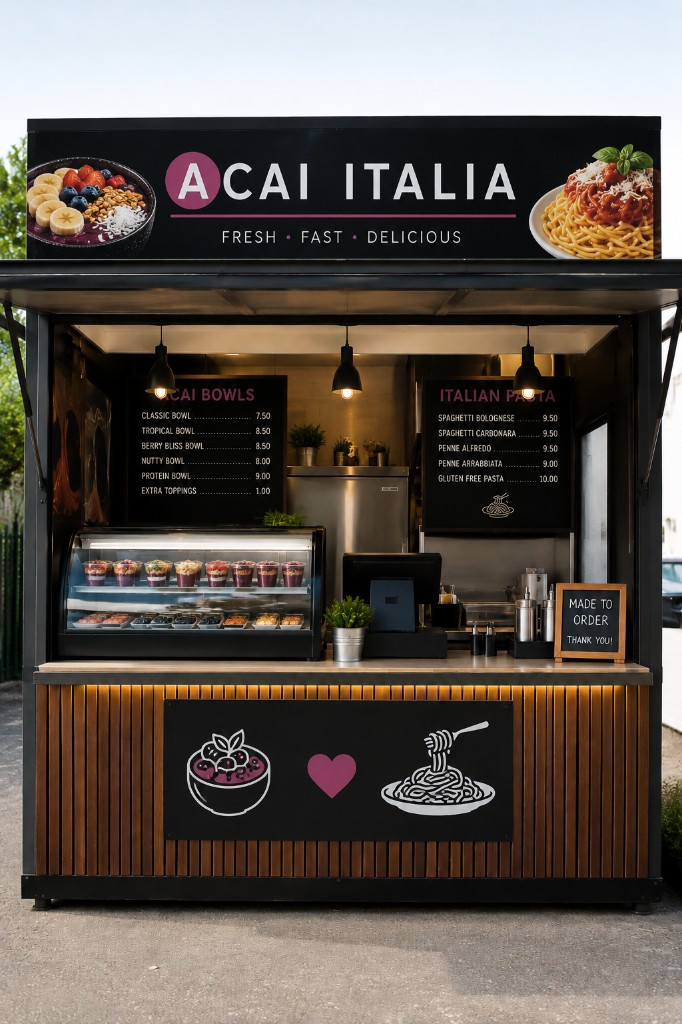
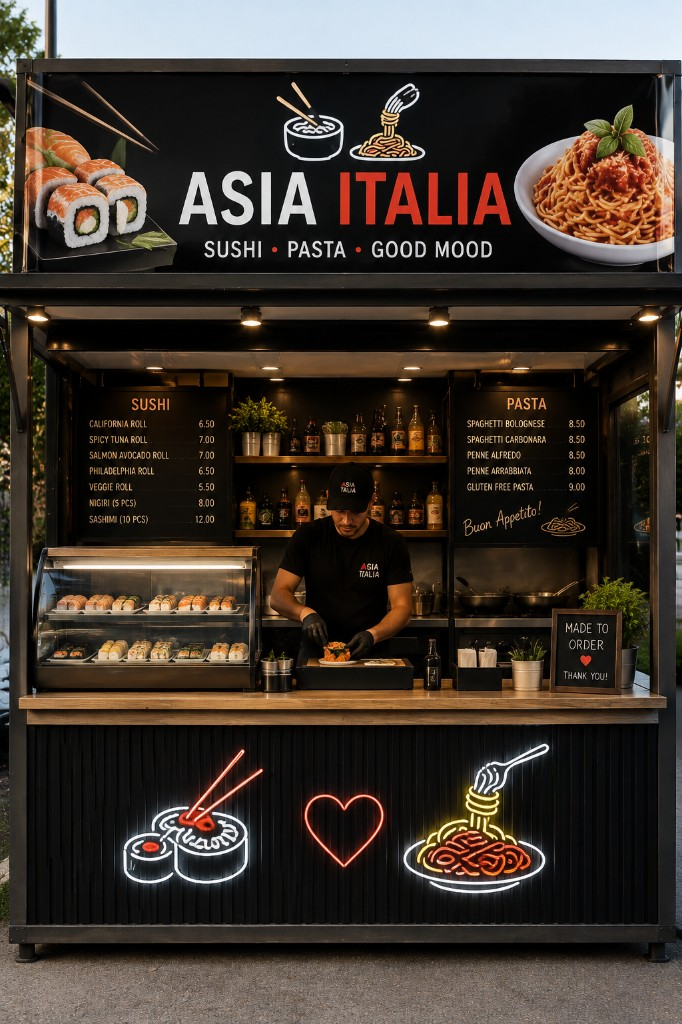
Rename to Asia Italia and swap hero image
- Replace all Acai Italia references with Asia Italia (nav, hero, story, footer, roll, alt text)
- Update hero photo to the new Asia Italia storefront
- Re-tune hero crop so the full sign sits flush under the navbar with no sky/gray on mobile

diff --git a/index.html b/index.html
@@ -3,7 +3,7 @@
 <head>
 <meta charset="utf-8">
 <meta name="viewport" content="width=device-width, initial-scale=1">
-<title>Acai Italia — Sushi &amp; Pasta, Boquerón</title>
+<title>Asia Italia — Sushi &amp; Pasta, Boquerón</title>
 <link rel="preconnect" href="https://fonts.googleapis.com">
 <link rel="preconnect" href="https://fonts.gstatic.com" crossorigin>
 <link rel="stylesheet" href="https://fonts.googleapis.com/css2?family=Cormorant+Garamond:ital,wght@0,300;0,400;0,500;0,600;1,300;1,400&family=Lora:ital,wght@0,400;0,500;1,400&display=swap">
@@ -24,7 +24,7 @@ a:hover{color:var(--color-accent-600)}
 <div style="max-width:480px;margin:0 auto;background:var(--color-bg);min-height:100vh;box-shadow:0 0 60px rgba(45,43,43,.18);overflow-x:hidden">
 
   <header style="position:sticky;top:0;z-index:20;display:flex;align-items:center;justify-content:space-between;gap:12px;padding:10px 18px;background:color-mix(in srgb, var(--color-bg) 92%, transparent);backdrop-filter:blur(8px);border-bottom:1px solid var(--color-divider)">
-    <a href="#top" style="font-family:var(--font-heading);font-size:19px;letter-spacing:.14em;text-transform:uppercase;color:var(--color-text);text-decoration:none">Acai Italia</a>
+    <a href="#top" style="font-family:var(--font-heading);font-size:19px;letter-spacing:.14em;text-transform:uppercase;color:var(--color-text);text-decoration:none">Asia Italia</a>
     <nav style="display:flex;gap:14px;font-family:var(--font-heading);font-size:13px;letter-spacing:.06em;text-transform:uppercase">
       <a href="#historia" style="color:var(--color-neutral-700);text-decoration:none">Historia</a>
       <a href="#menu" style="color:var(--color-neutral-700);text-decoration:none">Menú</a>
@@ -34,12 +34,12 @@ a:hover{color:var(--color-accent-600)}
 
   <section id="top" style="position:relative;height:86svh;min-height:520px;overflow:hidden">
     <div style="position:absolute;inset:0;overflow:hidden">
-      <img class="photo" src="assets/hero.jpg" alt="Fachada del restaurante Acai Italia" style="position:absolute;left:0;bottom:-20px;width:100%;height:118%;object-fit:cover;object-position:center bottom">
+      <img class="photo" src="assets/hero.jpg" alt="Fachada del restaurante Asia Italia" style="position:absolute;left:0;bottom:0;width:100%;height:108%;object-fit:cover;object-position:center bottom">
     </div>
     <div style="position:absolute;inset:0;pointer-events:none;background:linear-gradient(180deg, rgba(32,31,29,.52) 0%, rgba(32,31,29,.18) 38%, rgba(32,31,29,.72) 100%)"></div>
     <div style="position:absolute;inset:0;display:flex;flex-direction:column;justify-content:flex-end;padding:28px 24px 34px;pointer-events:none;animation:sal-rise .9s ease both">
       <div style="font-family:var(--font-heading);font-size:12px;letter-spacing:.24em;text-transform:uppercase;color:var(--color-accent-300);font-feature-settings:'tnum'">Cabo Rojo · Puerto Rico</div>
-      <h1 style="font-family:var(--font-heading);font-weight:300;font-size:66px;line-height:.94;letter-spacing:-.02em;color:#f8f4f4;margin:12px 0 0">Acai Italia</h1>
+      <h1 style="font-family:var(--font-heading);font-weight:300;font-size:66px;line-height:.94;letter-spacing:-.02em;color:#f8f4f4;margin:12px 0 0">Asia Italia</h1>
       <div style="width:64px;height:1px;background:var(--color-accent);margin:18px 0"></div>
       <p style="font-family:var(--font-body);font-style:italic;font-size:17px;line-height:1.5;color:#eae7e7;margin:0 0 22px;max-width:22em;text-wrap:pretty">Sushi de la costa oeste y pasta hecha a mano, en la misma mesa.</p>
       <div style="display:flex;gap:10px;pointer-events:auto">
@@ -52,7 +52,7 @@ a:hover{color:var(--color-accent-600)}
   <section id="historia" style="padding:44px 24px 8px">
     <div style="font-family:var(--font-heading);font-size:11px;letter-spacing:.24em;text-transform:uppercase;color:var(--color-accent-700)">Nuestra historia</div>
     <h2 style="font-family:var(--font-heading);font-weight:400;font-size:34px;line-height:1.06;margin:14px 0 18px">Dos cocinas, un mismo mar</h2>
-    <p style="text-align:justify;hyphens:auto;font-size:15.5px;line-height:1.72;margin:0 0 14px">Acai Italia abrió en una casa de madera a dos cuadras del muelle de Boquerón. La familia llegó de Nápoles hace tres generaciones y se quedó por el pescado: chillo, atún, pulpo y langosta que llegan de las mismas aguas que ven nuestras mesas.</p>
+    <p style="text-align:justify;hyphens:auto;font-size:15.5px;line-height:1.72;margin:0 0 14px">Asia Italia abrió en una casa de madera a dos cuadras del muelle de Boquerón. La familia llegó de Nápoles hace tres generaciones y se quedó por el pescado: chillo, atún, pulpo y langosta que llegan de las mismas aguas que ven nuestras mesas.</p>
     <p style="text-align:justify;hyphens:auto;font-size:15.5px;line-height:1.72;margin:0">La cocina hace pasta fresca cada mañana y corta pescado crudo cada tarde. En medio de las dos está la sushi pizza: una base de arroz crujiente que tratamos como masa y vestimos como plato italiano. No es fusión por capricho; es lo que se cocina cuando dos abuelas comparten una estufa.</p>
     <div class="hr" style="margin:30px 0 0"></div>
   </section>
@@ -95,7 +95,7 @@ a:hover{color:var(--color-accent-600)}
       </div>
 
       <div class="tab-panel active" data-panel="sushi" style="flex-direction:column">
-        <div class="menu-item"><div class="mi-main"><div class="mi-name">Roll Acai Italia</div><div class="mi-desc">Langosta local, albahaca, tobiko, alioli de limón</div></div><div class="mi-price">$22</div></div>
+        <div class="menu-item"><div class="mi-main"><div class="mi-name">Roll Asia Italia</div><div class="mi-desc">Langosta local, albahaca, tobiko, alioli de limón</div></div><div class="mi-price">$22</div></div>
         <div class="menu-item"><div class="mi-main"><div class="mi-name">Roll Boquerón</div><div class="mi-desc">Atún, mango, aguacate, cebollín</div></div><div class="mi-price">$16</div></div>
         <div class="menu-item"><div class="mi-main"><div class="mi-name">Roll Puglia</div><div class="mi-desc">Berenjena asada, tomate seco, mozzarella ahumada</div></div><div class="mi-price">$15</div></div>
         <div class="menu-item"><div class="mi-main"><div class="mi-name">Nigiri de chillo</div><div class="mi-desc">Dos piezas, limón y sal marina</div></div><div class="mi-price">$8</div></div>
@@ -136,10 +136,10 @@ a:hover{color:var(--color-accent-600)}
       <a href="#" style="font-family:var(--font-heading);font-size:13px;letter-spacing:.06em;text-decoration:none">@salamanca.pr</a>
     </div>
     <div style="display:grid;grid-template-columns:minmax(0,1fr) minmax(0,1fr);gap:10px;padding:0 24px">
-      <div class="plate" style="aspect-ratio:1;min-width:0;overflow:hidden"><img class="photo" src="assets/instagram-1.png" alt="Foto de Acai Italia en Instagram" style="width:100%;height:100%;object-fit:cover"></div>
-      <div class="plate" style="aspect-ratio:1;min-width:0;overflow:hidden"><img class="photo" src="assets/instagram-2.png" alt="Foto de Acai Italia en Instagram" style="width:100%;height:100%;object-fit:cover"></div>
-      <div class="plate" style="aspect-ratio:1;min-width:0;overflow:hidden"><img class="photo" src="assets/instagram-3.png" alt="Foto de Acai Italia en Instagram" style="width:100%;height:100%;object-fit:cover"></div>
-      <div class="plate" style="aspect-ratio:1;min-width:0;overflow:hidden"><img class="photo" src="assets/instagram-4.png" alt="Foto de Acai Italia en Instagram" style="width:100%;height:100%;object-fit:cover"></div>
+      <div class="plate" style="aspect-ratio:1;min-width:0;overflow:hidden"><img class="photo" src="assets/instagram-1.png" alt="Foto de Asia Italia en Instagram" style="width:100%;height:100%;object-fit:cover"></div>
+      <div class="plate" style="aspect-ratio:1;min-width:0;overflow:hidden"><img class="photo" src="assets/instagram-2.png" alt="Foto de Asia Italia en Instagram" style="width:100%;height:100%;object-fit:cover"></div>
+      <div class="plate" style="aspect-ratio:1;min-width:0;overflow:hidden"><img class="photo" src="assets/instagram-3.png" alt="Foto de Asia Italia en Instagram" style="width:100%;height:100%;object-fit:cover"></div>
+      <div class="plate" style="aspect-ratio:1;min-width:0;overflow:hidden"><img class="photo" src="assets/instagram-4.png" alt="Foto de Asia Italia en Instagram" style="width:100%;height:100%;object-fit:cover"></div>
     </div>
   </section>
 
@@ -148,7 +148,7 @@ a:hover{color:var(--color-accent-600)}
     <h2 style="font-family:var(--font-heading);font-weight:300;font-size:34px;line-height:1.06;margin:14px 0 20px;color:var(--color-neutral-100)">Calle Betances 42</h2>
 
     <div class="plate" style="width:100%;height:190px;border-color:var(--color-neutral-800);margin-bottom:20px">
-      <img class="photo" src="assets/storefront.png" alt="Fachada del restaurante Acai Italia">
+      <img class="photo" src="assets/storefront.png" alt="Fachada del restaurante Asia Italia">
     </div>
 
     <p style="font-size:15px;line-height:1.6;margin:0 0 22px;color:var(--color-neutral-300)">Boquerón, Cabo Rojo, PR 00623<br>A dos cuadras del muelle, frente a la plaza.</p>
@@ -174,7 +174,7 @@ a:hover{color:var(--color-accent-600)}
       </div>
     </div>
 
-    <div style="margin-top:34px;text-align:center;font-family:var(--font-heading);font-size:12px;letter-spacing:.24em;text-transform:uppercase;color:var(--color-neutral-600)">Acai Italia · Est. 2019</div>
+    <div style="margin-top:34px;text-align:center;font-family:var(--font-heading);font-size:12px;letter-spacing:.24em;text-transform:uppercase;color:var(--color-neutral-600)">Asia Italia · Est. 2019</div>
   </section>
 </div>
 

diff --git a/Salamanca.dc.html b/Salamanca.dc.html
@@ -25,7 +25,7 @@ a:hover{color:var(--color-accent-600)}
 <div style="max-width:480px;margin:0 auto;background:var(--color-bg);min-height:100vh;box-shadow:0 0 60px rgba(45,43,43,.18);overflow-x:hidden">
 
   <header style="position:sticky;top:0;z-index:20;display:flex;align-items:center;justify-content:space-between;gap:12px;padding:10px 18px;background:color-mix(in srgb, var(--color-bg) 92%, transparent);backdrop-filter:blur(8px);border-bottom:1px solid var(--color-divider)">
-    <a href="#top" style="font-family:var(--font-heading);font-size:19px;letter-spacing:.14em;text-transform:uppercase;color:var(--color-text);text-decoration:none">Acai Italia</a>
+    <a href="#top" style="font-family:var(--font-heading);font-size:19px;letter-spacing:.14em;text-transform:uppercase;color:var(--color-text);text-decoration:none">Asia Italia</a>
     <nav style="display:flex;gap:14px;font-family:var(--font-heading);font-size:13px;letter-spacing:.06em;text-transform:uppercase">
       <a href="#historia" style="color:var(--color-neutral-700);text-decoration:none">Historia</a>
       <a href="#menu" style="color:var(--color-neutral-700);text-decoration:none">Menú</a>
@@ -40,7 +40,7 @@ a:hover{color:var(--color-accent-600)}
     <div style="position:absolute;inset:0;pointer-events:none;background:linear-gradient(180deg, rgba(32,31,29,.52) 0%, rgba(32,31,29,.18) 38%, rgba(32,31,29,.72) 100%)"></div>
     <div style="position:absolute;inset:0;display:flex;flex-direction:column;justify-content:flex-end;padding:28px 24px 34px;pointer-events:none;animation:sal-rise .9s ease both">
       <div style="font-family:var(--font-heading);font-size:12px;letter-spacing:.24em;text-transform:uppercase;color:var(--color-accent-300);font-feature-settings:'tnum'">Cabo Rojo · Puerto Rico</div>
-      <h1 style="font-family:var(--font-heading);font-weight:300;font-size:66px;line-height:.94;letter-spacing:-.02em;color:#f8f4f4;margin:12px 0 0">Acai Italia</h1>
+      <h1 style="font-family:var(--font-heading);font-weight:300;font-size:66px;line-height:.94;letter-spacing:-.02em;color:#f8f4f4;margin:12px 0 0">Asia Italia</h1>
       <div style="width:64px;height:1px;background:var(--color-accent);margin:18px 0"></div>
       <p style="font-family:var(--font-body);font-style:italic;font-size:17px;line-height:1.5;color:#eae7e7;margin:0 0 22px;max-width:22em;text-wrap:pretty">Sushi de la costa oeste y pasta hecha a mano, en la misma mesa.</p>
       <div style="display:flex;gap:10px;pointer-events:auto">
@@ -53,7 +53,7 @@ a:hover{color:var(--color-accent-600)}
   <section id="historia" style="padding:44px 24px 8px">
     <div style="font-family:var(--font-heading);font-size:11px;letter-spacing:.24em;text-transform:uppercase;color:var(--color-accent-700)">Nuestra historia</div>
     <h2 style="font-family:var(--font-heading);font-weight:400;font-size:34px;line-height:1.06;margin:14px 0 18px">Dos cocinas, un mismo mar</h2>
-    <p style="text-align:justify;hyphens:auto;font-size:15.5px;line-height:1.72;margin:0 0 14px">Acai Italia abrió en una casa de madera a dos cuadras del muelle de Boquerón. La familia llegó de Nápoles hace tres generaciones y se quedó por el pescado: chillo, atún, pulpo y langosta que llegan de las mismas aguas que ven nuestras mesas.</p>
+    <p style="text-align:justify;hyphens:auto;font-size:15.5px;line-height:1.72;margin:0 0 14px">Asia Italia abrió en una casa de madera a dos cuadras del muelle de Boquerón. La familia llegó de Nápoles hace tres generaciones y se quedó por el pescado: chillo, atún, pulpo y langosta que llegan de las mismas aguas que ven nuestras mesas.</p>
     <p style="text-align:justify;hyphens:auto;font-size:15.5px;line-height:1.72;margin:0">La cocina hace pasta fresca cada mañana y corta pescado crudo cada tarde. En medio de las dos está la sushi pizza: una base de arroz crujiente que tratamos como masa y vestimos como plato italiano. No es fusión por capricho; es lo que se cocina cuando dos abuelas comparten una estufa.</p>
     <div class="hr" style="margin:30px 0 0"></div>
   </section>
@@ -134,7 +134,7 @@ a:hover{color:var(--color-accent-600)}
       </sc-for>
     </div>
 
-    <div style="margin-top:34px;text-align:center;font-family:var(--font-heading);font-size:12px;letter-spacing:.24em;text-transform:uppercase;color:var(--color-neutral-600)">Acai Italia · Est. 2019</div>
+    <div style="margin-top:34px;text-align:center;font-family:var(--font-heading);font-size:12px;letter-spacing:.24em;text-transform:uppercase;color:var(--color-neutral-600)">Asia Italia · Est. 2019</div>
   </section>
 </div>
 </x-dc>
@@ -152,7 +152,7 @@ class Component extends DCLogic {
         { name: 'Pulpo a la brasa', desc: 'Papa aplastada, ponzu de aceituna', price: '$16' }
       ]},
       sushi: { label: 'Sushi', note: 'El sashimi del día depende de lo que entre por el muelle.', items: [
-        { name: 'Roll Acai Italia', desc: 'Langosta local, albahaca, tobiko, alioli de limón', price: '$22' },
+        { name: 'Roll Asia Italia', desc: 'Langosta local, albahaca, tobiko, alioli de limón', price: '$22' },
         { name: 'Roll Boquerón', desc: 'Atún, mango, aguacate, cebollín', price: '$16' },
         { name: 'Roll Puglia', desc: 'Berenjena asada, tomate seco, mozzarella ahumada', price: '$15' },
         { name: 'Nigiri de chillo', desc: 'Dos piezas, limón y sal marina', price: '$8' },
